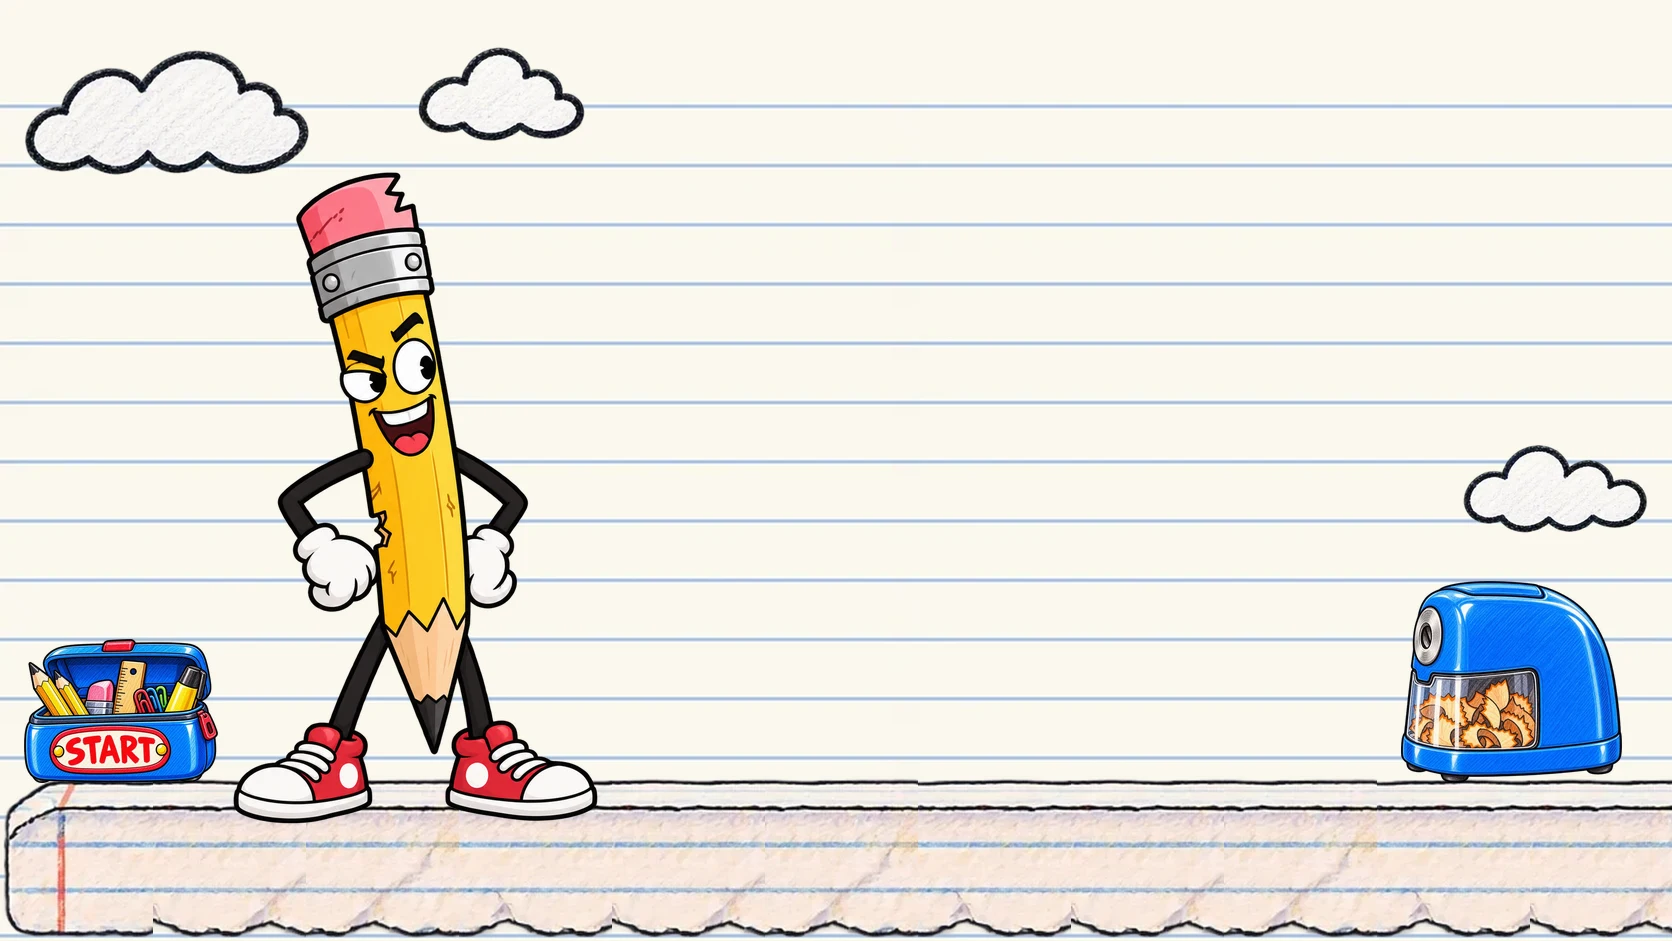
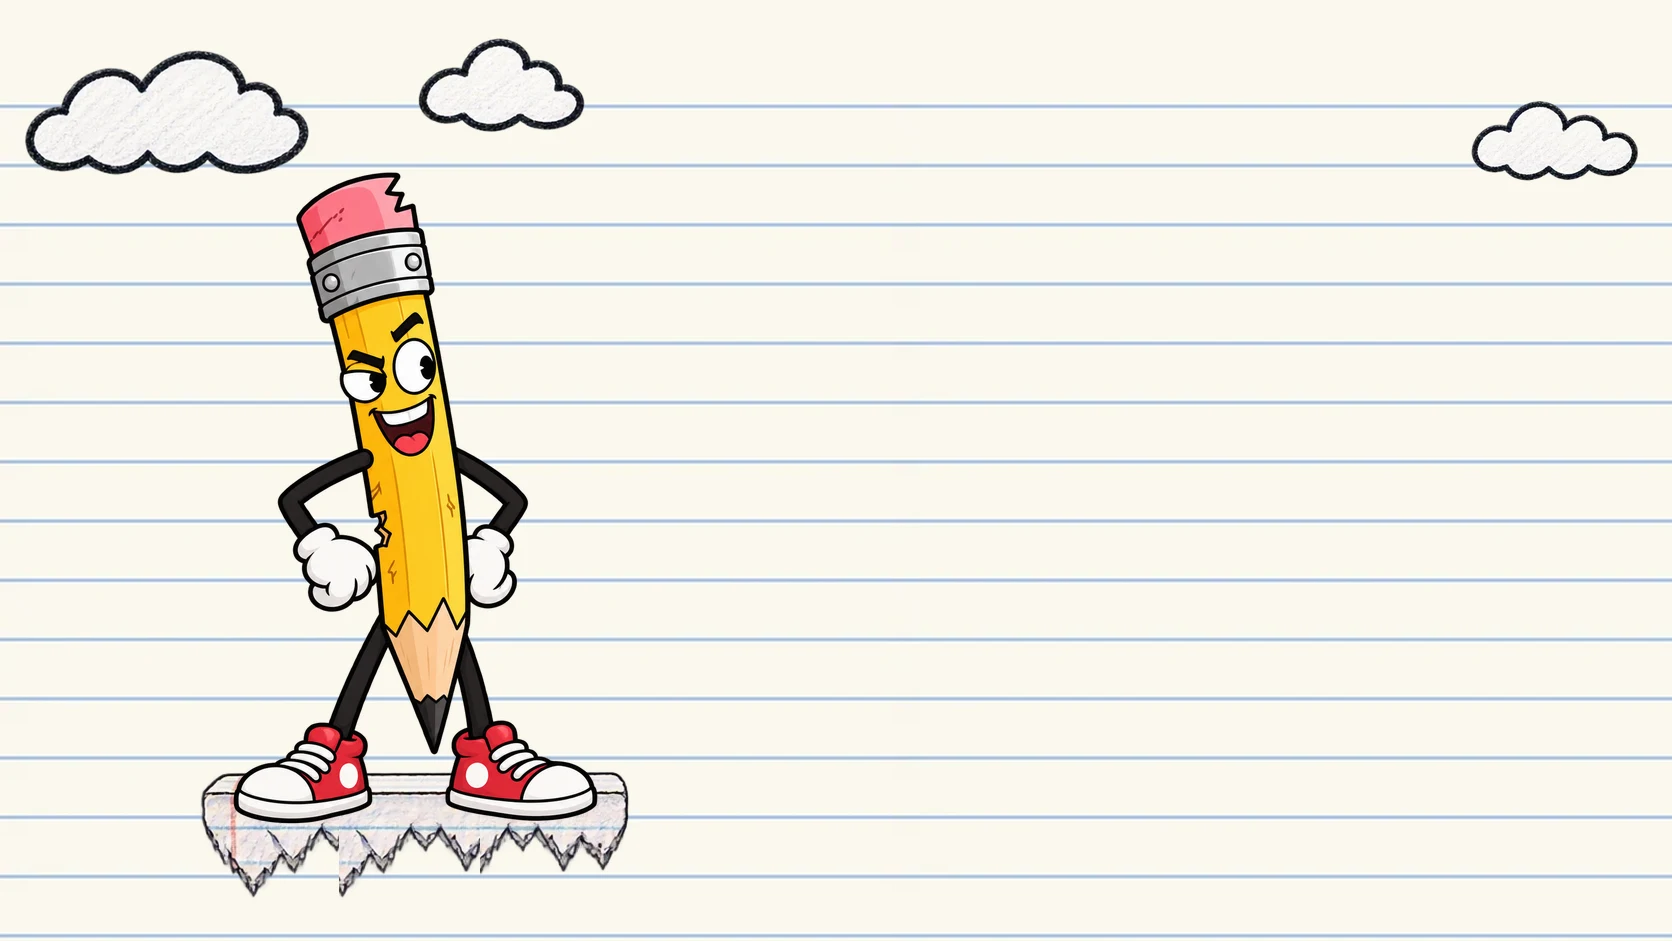
Menu art: just the pencil on a paper ledge under his shoes, clouds up top
Drops the pencil case and sharpener and the full-width ground; the right
cloud sat near the ground and the portrait ones crowded the pencil.

diff --git a/tools/compose-menu-art.py b/tools/compose-menu-art.py
@@ -1,7 +1,7 @@
 # Rebuilds both menu backgrounds (feed card + expanded menu share them via
-# src/client/menu.css) from the in-game art: notebook paper, clouds, the
-# ground tiles, the pencil case and the sharpener, with the hero pencil
-# from ~/Desktop/Assets/pencil sprites/better idle.png.
+# src/client/menu.css) from the in-game art: notebook paper, a few clouds,
+# and a paper ledge (the platform tiles) just under the hero pencil's
+# shoes, with the pencil from ~/Desktop/Assets/pencil sprites/better idle.png.
 # usage: python3 tools/compose-menu-art.py
 #
 # The pencil must stay exactly where the CSS layout expects him (the Play
@@ -22,21 +22,18 @@ LAYOUTS = {
         size=(1672, 941),
         pencil_box=(326, 206, 520, 799),
         ground_y=775,
-        rows=1,
         # Kept clear of the title/Play group (right of centre, top half).
         title_zone=(640, 0, 1450, 420),
         # (cloud, centre x, centre y, width), as fractions of the image.
-        clouds=[('cloud-a', 0.10, 0.12, 0.17), ('cloud-d', 0.30, 0.10, 0.10), ('cloud-c', 0.93, 0.52, 0.11)],
-        sharpener=True,
+        clouds=[('cloud-a', 0.10, 0.12, 0.17), ('cloud-d', 0.30, 0.09, 0.10), ('cloud-c', 0.93, 0.15, 0.10)],
     ),
     'menu-background-portrait': dict(
         size=(900, 1614),
         pencil_box=(341, 677, 554, 1303),
         ground_y=1285,
-        rows=2,
-        title_zone=(150, 0, 750, 560),
-        clouds=[('cloud-a', 0.14, 0.45, 0.30), ('cloud-b', 0.86, 0.41, 0.30)],
-        sharpener=False,
+        # The group is centred on top, about 55% wide; clouds go either side.
+        title_zone=(200, 0, 700, 720),
+        clouds=[('cloud-a', 0.11, 0.24, 0.20), ('cloud-b', 0.89, 0.30, 0.20)],
     ),
 }
 
@@ -62,7 +59,7 @@ def body_box(im):
     return xs.min(), ys.min(), xs.max(), ys.max()
 
 
-def compose(name, size, pencil_box, ground_y, rows, title_zone, clouds, sharpener):
+def compose(name, size, pencil_box, ground_y, title_zone, clouds):
     W, H = size
     out = Image.new('RGBA', size)
     paper = fit_h(load('ui/paper-bg.webp'), H)
@@ -77,17 +74,6 @@ def compose(name, size, pencil_box, ground_y, rows, title_zone, clouds, sharpene
         assert not overlaps((*box, box[0] + cloud.width, box[1] + cloud.height), title_zone), key
         out.alpha_composite(cloud, box)
 
-    tile_h = round((H - ground_y) / rows)
-    ends = [fit_h(load(f'paper/tiles/ground-{s}.webp'), tile_h) for s in ('left', 'right')]
-    centers = [fit_h(load(f'paper/tiles/ground-center-{i}.webp'), tile_h) for i in (1, 2, 3)]
-    for r in range(rows):
-        y, x, i = ground_y + r * tile_h, 0, 0
-        while x < W:
-            tile = ends[0] if x == 0 else centers[(i + r) % 3]
-            out.alpha_composite(tile, (x, y))
-            x += tile.width
-            i += 1
-
     body_h = pencil_box[3] - pencil_box[1]
     hero_src = Image.open(HERO).convert('RGBA')
     sx0, sy0, sx1, sy1 = body_box(hero_src)
@@ -96,23 +82,28 @@ def compose(name, size, pencil_box, ground_y, rows, title_zone, clouds, sharpene
     cx = (pencil_box[0] + pencil_box[2]) / 2
     hero_pos = (round(cx - (sx0 + sx1) / 2 * scale), round(pencil_box[1] - sy0 * scale))
 
-    # The pencil case stands left of him, as at a level's spawn, sized to
-    # fit the gap between him and the edge.
-    solid_cols = np.where((np.array(hero_src.getchannel('A')) > 128).any(axis=0))[0]
-    hero_left = hero_pos[0] + round(solid_cols.min() * scale)
-    case_src = load('markers/spawn.webp')
-    case_h = min(round(body_h * 0.3), round((hero_left - 40) * case_src.height / case_src.width))
-    case = fit_h(case_src, case_h)
-    out.alpha_composite(case, (hero_left - 16 - case.width, ground_y - case.height + 8))
-    if sharpener:
-        sharp = fit_h(load('markers/finish.webp'), round(body_h * 0.34))
-        out.alpha_composite(sharp, (W - 50 - sharp.width, ground_y - sharp.height + 8))
+    # A three-piece paper ledge just under his shoes (the solid pixels in
+    # the bottom tenth of the pencil), with a little overhang each side.
+    solid = np.array(hero.getchannel('A')) > 128
+    feet_rows = solid[int(hero.height * 0.9):]
+    feet_cols = np.where(feet_rows.any(axis=0))[0]
+    feet_left, feet_right = hero_pos[0] + feet_cols.min(), hero_pos[0] + feet_cols.max()
+    ledge_w = (feet_right - feet_left) + 90
+    pieces = [load(f'paper/tiles/platform-{s}.webp') for s in ('left', 'center-1', 'right')]
+    piece_h = round(ledge_w / 3 * pieces[0].height / pieces[0].width)
+    pieces = [fit_h(p, piece_h) for p in pieces]
+    # Overlapped a little so the torn edges don't leave a seam.
+    overlap = round(piece_h * 0.08)
+    x = round((feet_left + feet_right) / 2 - (sum(p.width for p in pieces) - 2 * overlap) / 2)
+    for piece in pieces:
+        out.alpha_composite(piece, (x, ground_y - 6))
+        x += piece.width - overlap
 
     out.alpha_composite(hero, hero_pos)
     with tempfile.NamedTemporaryFile(suffix='.png') as tmp:
         out.convert('RGB').save(tmp.name)
         subprocess.run(['cwebp', '-quiet', '-q', '88', tmp.name, '-o', str(A / f'ui/{name}.webp')], check=True)
-    # Re-measure around where he should be (the case, sharpener and tiles
+    # Re-measure around where he should be (the ledge tiles
     # have yellows/reds of their own).
     x0, y0, x1, y1 = pencil_box
     region = (x0 - 40, y0 - 40, x1 + 40, y1 + 20)
